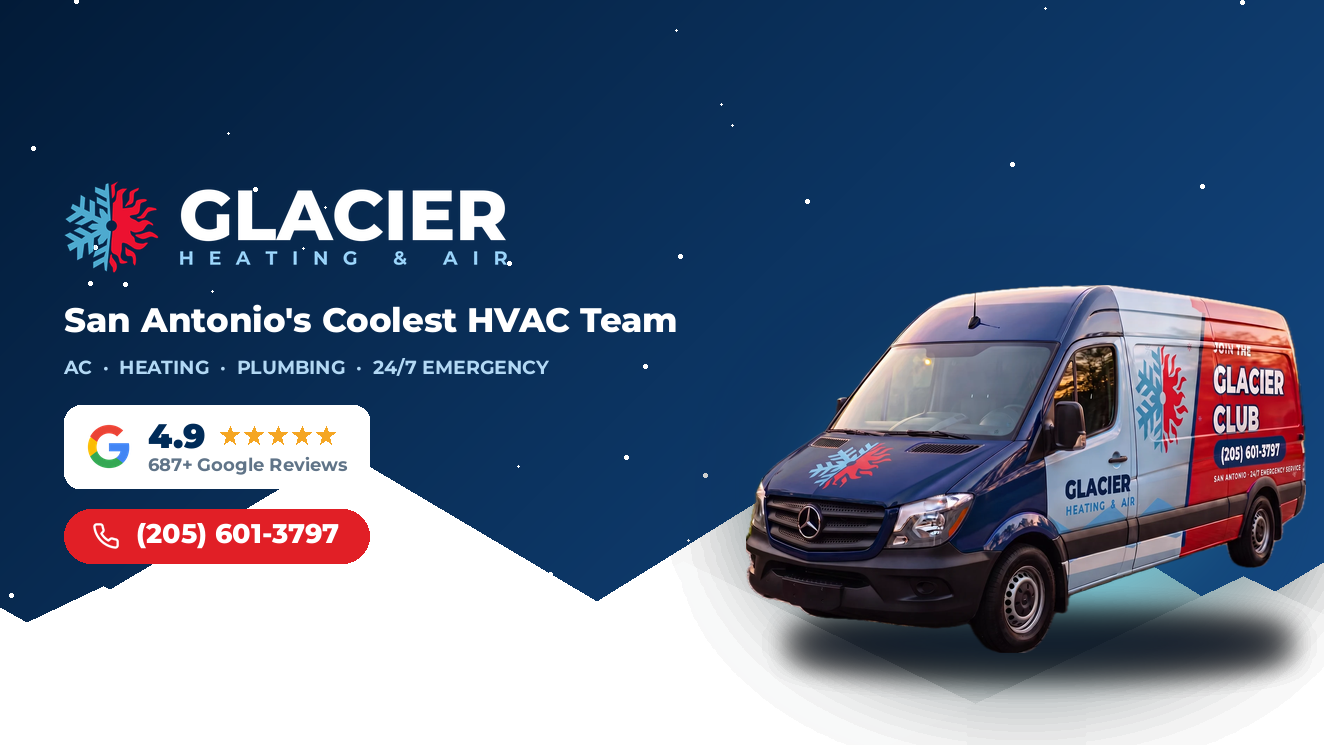
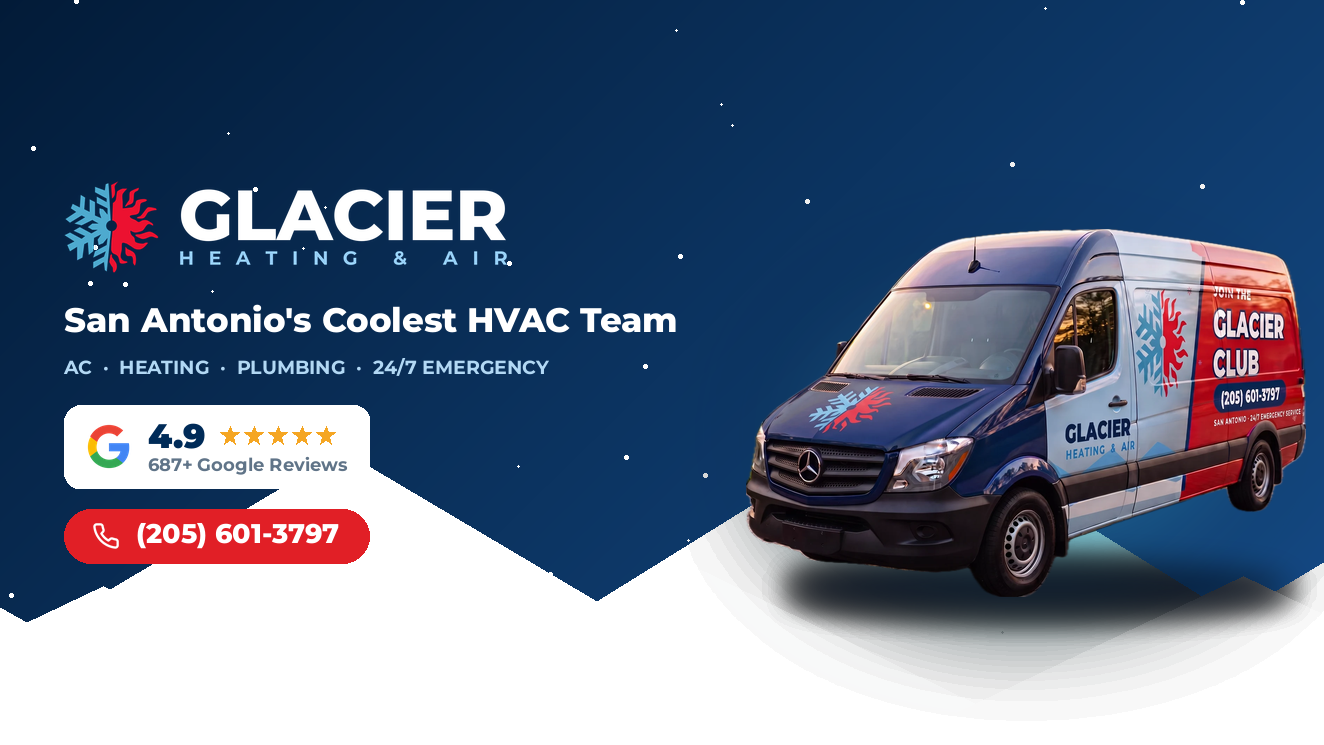
FB cover: raise van into ultrawide-safe band (fixed-height viewport survives 16:9 to 3.2:1)

Changed region(s): [[0.5264, 0.3087, 1.0, 1.0]]

diff --git a/glacier-site/scratchpad/make_fb_cover.py b/glacier-site/scratchpad/make_fb_cover.py
@@ -51,7 +51,7 @@ def star(cx,cy,r,fill):
 van=Image.open("public/van.webp").convert("RGBA")
 VW=560; VH=int(van.height*VW/van.width)
 van=van.resize((VW,VH),Image.LANCZOS)
-vx=MX1-VW-18; vy=H-VH-92
+vx=MX1-VW-18; vy=H-VH-148
 glow=Image.new("RGBA",(W,H),(0,0,0,0)); gd=ImageDraw.Draw(glow)
 gd.ellipse([vx+40,vy+50,vx+VW-40,vy+VH-8],fill=(72,202,228,60))
 glow=glow.filter(ImageFilter.GaussianBlur(60))
